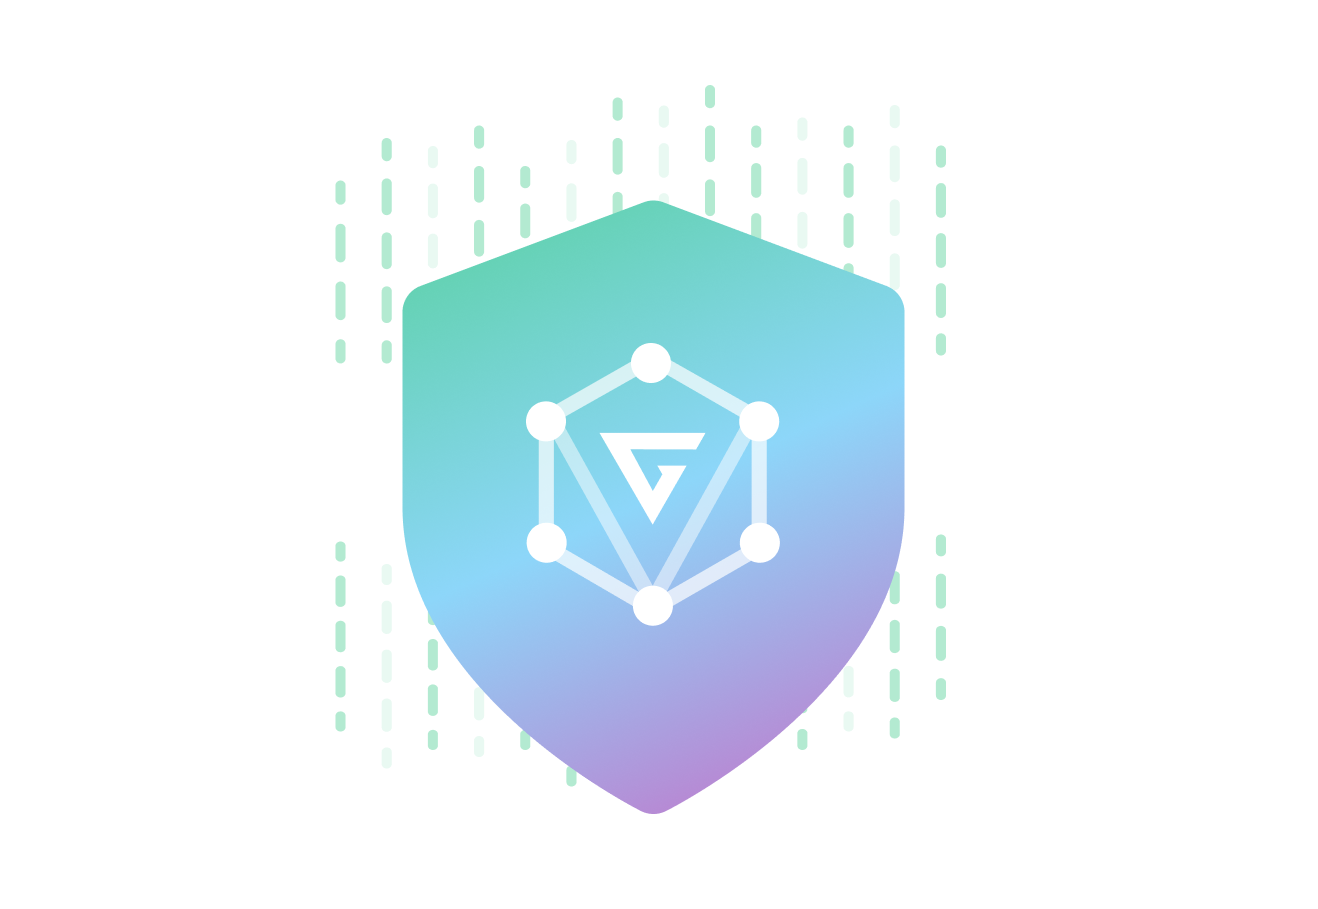
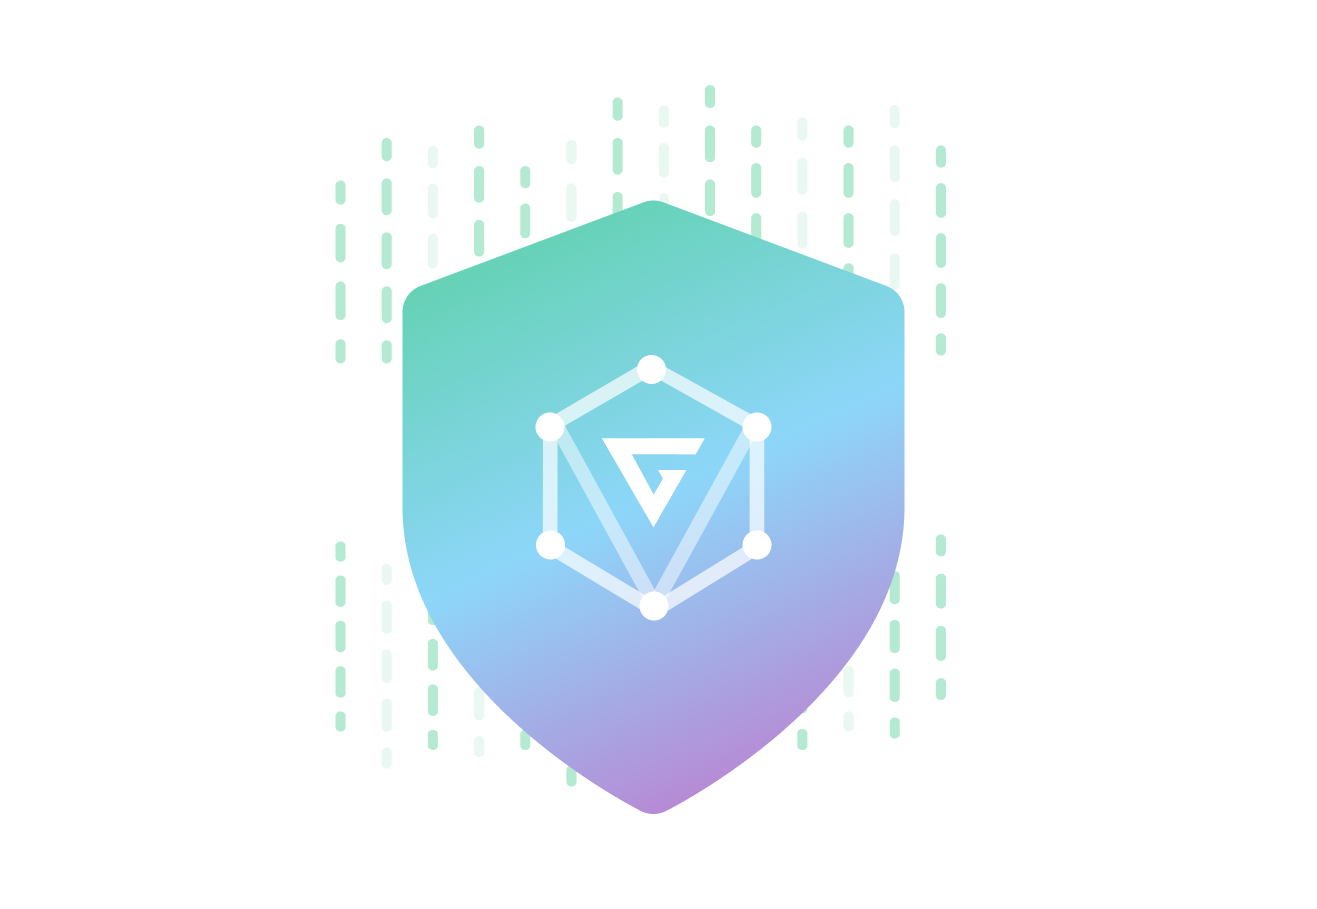
updates

Changed region(s): [[0.3736, 0.3696, 0.5915, 0.7085], [0.4358, 0.6161, 0.467, 0.6469]]

diff --git a/src/components/LogoAnimated.vue b/src/components/LogoAnimated.vue
@@ -2,95 +2,96 @@
 
  <div class="animated-logo" @click="resetLogo">
 
-	 <svg width="559" height="623" viewBox="0 0 559 623" fill="none" xmlns="http://www.w3.org/2000/svg">
-<path opacity="0.5" d="M278.194 535.834L307.037 552.459L504.948 194.049L476.105 177.424L278.194 535.834Z" fill="url(#paint0_linear)"/>
-<path opacity="0.5" d="M250.81 552.352L279.652 535.725L84.1712 183.114L55.3289 199.741L250.81 552.352Z" fill="url(#paint1_linear)"/>
-<path opacity="0.7" d="M77.1362 448.627L60.4839 477.424L237.821 580.821L254.473 552.024L77.1362 448.627Z" fill="url(#paint2_linear)"/>
-<path opacity="0.7" d="M314.159 584.426L498.266 478.303L481.614 449.505L297.507 555.629L314.159 584.426Z" fill="url(#paint3_linear)"/>
-<path opacity="0.7" d="M496.785 408.06L530.089 408.06L530.087 203.704L496.782 203.704L496.785 408.06Z" fill="url(#paint4_linear)"/>
-<path opacity="0.7" d="M311.526 34.2764L301.019 64.8291L479.548 167.771L483.516 147.869L496.2 138.974L311.526 34.2764Z" fill="url(#paint5_linear)"/>
-<path opacity="0.7" d="M75.3799 168.639L254.31 67.463L242.047 35.1543L58.728 139.842L75.3799 168.639Z" fill="url(#paint6_linear)"/>
-<path opacity="0.7" d="M28.0056 406.07L61.3101 406.069L61.3075 198.437L28.0029 198.437L28.0056 406.07Z" fill="url(#paint7_linear)"/>
-<path d="M299.741 363.788L229.638 234.277L374.531 234.642L395.419 198.137L161.778 198.141L220.316 299.217L278.853 400.294L299.741 363.788Z" fill="url(#paint8_linear)"/>
-<path d="M353.7 270.148L299.741 363.788L273.265 336.627L311.382 270.144L353.7 270.148Z" fill="url(#paint9_linear)"/>
-<path d="M289.133 270.148H315.981L302.557 293.561L289.133 270.148Z" fill="url(#paint10_linear)"/>
-<path d="M88.1111 172.859C88.1111 197.19 68.3868 216.915 44.0556 216.915C19.7243 216.915 0 197.19 0 172.859C0 148.528 19.7243 128.804 44.0556 128.804C68.3868 128.804 88.1111 148.528 88.1111 172.859Z" fill="url(#paint11_linear)"/>
-<path d="M319.222 44.3036C319.222 68.6348 299.498 88.3592 275.167 88.3592C250.835 88.3592 231.111 68.6348 231.111 44.3036C231.111 19.9724 250.835 0.248047 275.167 0.248047C299.498 0.248047 319.222 19.9724 319.222 44.3036Z" fill="url(#paint12_linear)"/>
-<path d="M557.556 172.859C557.556 197.19 537.831 216.915 513.5 216.915C489.169 216.915 469.444 197.19 469.444 172.859C469.444 148.528 489.169 128.804 513.5 128.804C537.831 128.804 557.556 148.528 557.556 172.859Z" fill="url(#paint13_linear)"/>
-<path d="M559 440.081C559 464.413 539.276 484.137 514.944 484.137C490.613 484.137 470.889 464.413 470.889 440.081C470.889 415.75 490.613 396.026 514.944 396.026C539.276 396.026 559 415.75 559 440.081Z" fill="url(#paint14_linear)"/>
-<path d="M323.556 578.748C323.556 603.079 303.831 622.804 279.5 622.804C255.169 622.804 235.444 603.079 235.444 578.748C235.444 554.417 255.169 534.693 279.5 534.693C303.831 534.693 323.556 554.417 323.556 578.748Z" fill="url(#paint15_linear)"/>
-<path d="M89.5556 440.081C89.5556 464.413 69.8312 484.137 45.5 484.137C21.1688 484.137 1.44444 464.413 1.44444 440.081C1.44444 415.75 21.1688 396.026 45.5 396.026C69.8312 396.026 89.5556 415.75 89.5556 440.081Z" fill="url(#paint16_linear)"/>
+<svg width="421" height="468" viewBox="0 0 421 468" fill="none" xmlns="http://www.w3.org/2000/svg">
+<path opacity="0.5" d="M209.13 411.145L230.812 423.643L388.113 137.164L366.431 124.666L209.13 411.145Z" fill="url(#paint0_linear)"/>
+<path opacity="0.5" d="M197.068 432.086L218.75 419.587L56.4559 122.977L34.7739 135.476L197.068 432.086Z" fill="url(#paint1_linear)"/>
+<path opacity="0.7" d="M49.4625 328.541L36.9443 350.189L189.008 441.554L201.526 419.906L49.4625 328.541Z" fill="url(#paint2_linear)"/>
+<path opacity="0.7" d="M227.642 446.821L383.091 350.849L370.573 329.201L215.124 425.173L227.642 446.821Z" fill="url(#paint3_linear)"/>
+<path opacity="0.7" d="M373.453 315.093L398.489 315.092L398.487 141.865L373.453 131.266V315.093Z" fill="url(#paint4_linear)"/>
+<path opacity="0.7" d="M225.663 24.728L217.764 47.6957L369.019 132.753L372.002 117.791L381.537 111.105L225.663 24.728Z" fill="url(#paint5_linear)"/>
+<path opacity="0.7" d="M48.1424 133.406L191.175 50.5284L181.957 26.2407L35.6245 111.758L48.1424 133.406Z" fill="url(#paint6_linear)"/>
+<path opacity="0.7" d="M21.053 313.596L46.0894 313.595L46.0874 148.986L21.051 148.987L21.053 313.596Z" fill="url(#paint7_linear)"/>
+<path d="M225.328 273.288L172.628 175.929L281.55 176.203L297.253 148.761L121.615 148.764L165.62 224.747L209.625 300.73L225.328 273.288Z" fill="url(#paint8_linear)"/>
+<path d="M265.891 202.894L225.328 273.288L205.424 252.869L234.078 202.892L265.891 202.894Z" fill="url(#paint9_linear)"/>
+<path d="M217.353 202.894H237.536L227.444 220.495L217.353 202.894Z" fill="url(#paint10_linear)"/>
+<path d="M57.9617 129.561C57.9617 143.213 46.8946 154.28 33.2427 154.28C19.5907 154.28 8.52368 143.213 8.52368 129.561C8.52368 115.909 19.5907 104.842 33.2427 104.842C46.8946 104.842 57.9617 115.909 57.9617 129.561Z" fill="url(#paint11_linear)"/>
+<path d="M230.995 31.5378C230.995 45.1898 219.927 56.2568 206.276 56.2568C192.624 56.2568 181.557 45.1898 181.557 31.5378C181.557 17.8859 192.624 6.81885 206.276 6.81885C219.927 6.81885 230.995 17.8859 230.995 31.5378Z" fill="url(#paint12_linear)"/>
+<path d="M410.846 330.723C410.846 344.375 399.779 355.442 386.127 355.442C372.476 355.442 361.408 344.375 361.408 330.723C361.408 317.071 372.476 306.004 386.127 306.004C399.779 306.004 410.846 317.071 410.846 330.723Z" fill="url(#paint13_linear)"/>
+<path d="M235.256 434.713C235.256 448.365 224.189 459.432 210.537 459.432C196.886 459.432 185.818 448.365 185.818 434.713C185.818 421.061 196.886 409.994 210.537 409.994C224.189 409.994 235.256 421.061 235.256 434.713Z" fill="url(#paint14_linear)"/>
+<path d="M58.814 330.723C58.814 344.375 47.747 355.442 34.095 355.442C20.4431 355.442 9.37606 344.375 9.37606 330.723C9.37606 317.071 20.4431 306.004 34.095 306.004C47.747 306.004 58.814 317.071 58.814 330.723Z" fill="url(#paint15_linear)"/>
+<path d="M410.846 129.561C410.846 143.213 399.779 154.28 386.127 154.28C372.476 154.28 361.408 143.213 361.408 129.561C361.408 115.909 372.476 104.842 386.127 104.842C399.779 104.842 410.846 115.909 410.846 129.561Z" fill="url(#paint16_linear)"/>
 <defs>
-<linearGradient id="paint0_linear" x1="228.152" y1="177.424" x2="542.057" y2="682.461" gradientUnits="userSpaceOnUse">
-<stop stop-color="#53D096"/>
-<stop offset="1" stop-color="#8DD6F9"/>
+<linearGradient id="paint0_linear" x1="183.4" y1="147.216" x2="403.667" y2="500.792" gradientUnits="userSpaceOnUse">
+<stop stop-color="#65D4BB"/>
+<stop offset="1" stop-color="#65D4BB"/>
 </linearGradient>
-<linearGradient id="paint1_linear" x1="5.82298" y1="183.114" x2="314.215" y2="681.673" gradientUnits="userSpaceOnUse">
-<stop stop-color="#53D096"/>
-<stop offset="1" stop-color="#8DD6F9"/>
+<linearGradient id="paint1_linear" x1="8.32672" y1="146.291" x2="236.64" y2="510.658" gradientUnits="userSpaceOnUse">
+<stop stop-color="#65D4BB"/>
+<stop offset="1" stop-color="#65D4BB"/>
 </linearGradient>
-<linearGradient id="paint2_linear" x1="17.6725" y1="448.627" x2="76.9826" y2="680.228" gradientUnits="userSpaceOnUse">
-<stop stop-color="#53D096"/>
-<stop offset="1" stop-color="#8DD6F9"/>
+<linearGradient id="paint2_linear" x1="13.2851" y1="337.065" x2="57.8709" y2="511.168" gradientUnits="userSpaceOnUse">
+<stop stop-color="#65D4BB"/>
+<stop offset="1" stop-color="#65D4BB"/>
 </linearGradient>
-<linearGradient id="paint3_linear" x1="253.201" y1="449.505" x2="313.001" y2="686.282" gradientUnits="userSpaceOnUse">
-<stop stop-color="#53D096"/>
-<stop offset="1" stop-color="#8DD6F9"/>
+<linearGradient id="paint3_linear" x1="190.978" y1="338.072" x2="238.184" y2="518.828" gradientUnits="userSpaceOnUse">
+<stop stop-color="#65D4BB"/>
+<stop offset="1" stop-color="#65D4BB"/>
 </linearGradient>
-<linearGradient id="paint4_linear" x1="489.431" y1="203.704" x2="628.697" y2="264.103" gradientUnits="userSpaceOnUse">
-<stop stop-color="#53D096"/>
-<stop offset="1" stop-color="#8DD6F9"/>
+<linearGradient id="paint4_linear" x1="369.854" y1="145.131" x2="467.089" y2="180.64" gradientUnits="userSpaceOnUse">
+<stop stop-color="#65D4BB"/>
+<stop offset="1" stop-color="#65D4BB"/>
 </linearGradient>
-<linearGradient id="paint5_linear" x1="257.944" y1="34.2764" x2="318.031" y2="268.05" gradientUnits="userSpaceOnUse">
-<stop stop-color="#53D096"/>
-<stop offset="1" stop-color="#8DD6F9"/>
+<linearGradient id="paint5_linear" x1="194.221" y1="32.8755" x2="235.354" y2="200.089" gradientUnits="userSpaceOnUse">
+<stop stop-color="#65D4BB"/>
+<stop offset="1" stop-color="#65D4BB"/>
 </linearGradient>
-<linearGradient id="paint6_linear" x1="15.5652" y1="35.1543" x2="75.5356" y2="268.972" gradientUnits="userSpaceOnUse">
-<stop stop-color="#53D096"/>
-<stop offset="1" stop-color="#8DD6F9"/>
+<linearGradient id="paint6_linear" x1="13.2636" y1="34.3234" x2="55.6645" y2="199.35" gradientUnits="userSpaceOnUse">
+<stop stop-color="#65D4BB"/>
+<stop offset="1" stop-color="#65D4BB"/>
 </linearGradient>
-<linearGradient id="paint7_linear" x1="20.6524" y1="198.437" x2="160.612" y2="258.18" gradientUnits="userSpaceOnUse">
-<stop stop-color="#53D096"/>
-<stop offset="1" stop-color="#8DD6F9"/>
+<linearGradient id="paint7_linear" x1="17.4517" y1="161.402" x2="111.945" y2="199.941" gradientUnits="userSpaceOnUse">
+<stop stop-color="#65D4BB"/>
+<stop offset="1" stop-color="#65D4BB"/>
 </linearGradient>
-<linearGradient id="paint8_linear" x1="110.216" y1="198.137" x2="221.197" y2="539.452" gradientUnits="userSpaceOnUse">
-<stop stop-color="#53D096"/>
-<stop offset="1" stop-color="#8DD6F9"/>
+<linearGradient id="paint8_linear" x1="96.3662" y1="160.223" x2="169.275" y2="386.167" gradientUnits="userSpaceOnUse">
+<stop stop-color="#65D4BB"/>
+<stop offset="1" stop-color="#65D4BB"/>
 </linearGradient>
-<linearGradient id="paint9_linear" x1="110.216" y1="198.137" x2="221.197" y2="539.452" gradientUnits="userSpaceOnUse">
-<stop stop-color="#53D096"/>
-<stop offset="1" stop-color="#8DD6F9"/>
+<linearGradient id="paint9_linear" x1="96.3662" y1="160.223" x2="169.275" y2="386.167" gradientUnits="userSpaceOnUse">
+<stop stop-color="#65D4BB"/>
+<stop offset="1" stop-color="#65D4BB"/>
 </linearGradient>
-<linearGradient id="paint10_linear" x1="110.216" y1="198.137" x2="221.197" y2="539.452" gradientUnits="userSpaceOnUse">
-<stop stop-color="#53D096"/>
-<stop offset="1" stop-color="#8DD6F9"/>
+<linearGradient id="paint10_linear" x1="96.3662" y1="160.223" x2="169.275" y2="386.167" gradientUnits="userSpaceOnUse">
+<stop stop-color="#65D4BB"/>
+<stop offset="1" stop-color="#65D4BB"/>
 </linearGradient>
-<linearGradient id="paint11_linear" x1="-123.366" y1="0.248044" x2="290.555" y2="989.245" gradientUnits="userSpaceOnUse">
-<stop stop-color="#53D096"/>
-<stop offset="1" stop-color="#8DD6F9"/>
+<linearGradient id="paint11_linear" x1="-49.3117" y1="40.9562" x2="215.762" y2="672.746" gradientUnits="userSpaceOnUse">
+<stop stop-color="#65D4BB"/>
+<stop offset="1" stop-color="#65D4BB"/>
 </linearGradient>
-<linearGradient id="paint12_linear" x1="-123.366" y1="0.248044" x2="290.555" y2="989.245" gradientUnits="userSpaceOnUse">
-<stop stop-color="#53D096"/>
-<stop offset="1" stop-color="#8DD6F9"/>
+<linearGradient id="paint12_linear" x1="-49.3117" y1="40.9562" x2="215.762" y2="672.746" gradientUnits="userSpaceOnUse">
+<stop stop-color="#65D4BB"/>
+<stop offset="1" stop-color="#65D4BB"/>
 </linearGradient>
-<linearGradient id="paint13_linear" x1="-123.366" y1="0.248044" x2="290.555" y2="989.245" gradientUnits="userSpaceOnUse">
-<stop stop-color="#53D096"/>
-<stop offset="1" stop-color="#8DD6F9"/>
+<linearGradient id="paint13_linear" x1="-49.3117" y1="40.9562" x2="215.762" y2="672.746" gradientUnits="userSpaceOnUse">
+<stop stop-color="#65D4BB"/>
+<stop offset="1" stop-color="#65D4BB"/>
 </linearGradient>
-<linearGradient id="paint14_linear" x1="-123.366" y1="0.248044" x2="290.555" y2="989.245" gradientUnits="userSpaceOnUse">
-<stop stop-color="#53D096"/>
-<stop offset="1" stop-color="#8DD6F9"/>
+<linearGradient id="paint14_linear" x1="-49.3117" y1="40.9562" x2="215.762" y2="672.746" gradientUnits="userSpaceOnUse">
+<stop stop-color="#65D4BB"/>
+<stop offset="1" stop-color="#65D4BB"/>
 </linearGradient>
-<linearGradient id="paint15_linear" x1="-123.366" y1="0.248044" x2="290.555" y2="989.245" gradientUnits="userSpaceOnUse">
-<stop stop-color="#53D096"/>
-<stop offset="1" stop-color="#8DD6F9"/>
+<linearGradient id="paint15_linear" x1="-49.3117" y1="40.9562" x2="215.762" y2="672.746" gradientUnits="userSpaceOnUse">
+<stop stop-color="#65D4BB"/>
+<stop offset="1" stop-color="#65D4BB"/>
 </linearGradient>
-<linearGradient id="paint16_linear" x1="-123.366" y1="0.248044" x2="290.555" y2="989.245" gradientUnits="userSpaceOnUse">
-<stop stop-color="#53D096"/>
-<stop offset="1" stop-color="#8DD6F9"/>
+<linearGradient id="paint16_linear" x1="-49.3117" y1="40.9562" x2="215.762" y2="672.746" gradientUnits="userSpaceOnUse">
+<stop stop-color="#65D4BB"/>
+<stop offset="1" stop-color="#65D4BB"/>
 </linearGradient>
 </defs>
 </svg>
+
 
   </div>
 </template>

diff --git a/src/layouts/partials/Logo.vue b/src/layouts/partials/Logo.vue
@@ -16,7 +16,7 @@ export default {
 <style lang="scss">
  .logo {
   svg{
-  	max-width: 140px;
+  	max-width: 155px;
   	height: auto;
   	margin-top: -3px;
   }
